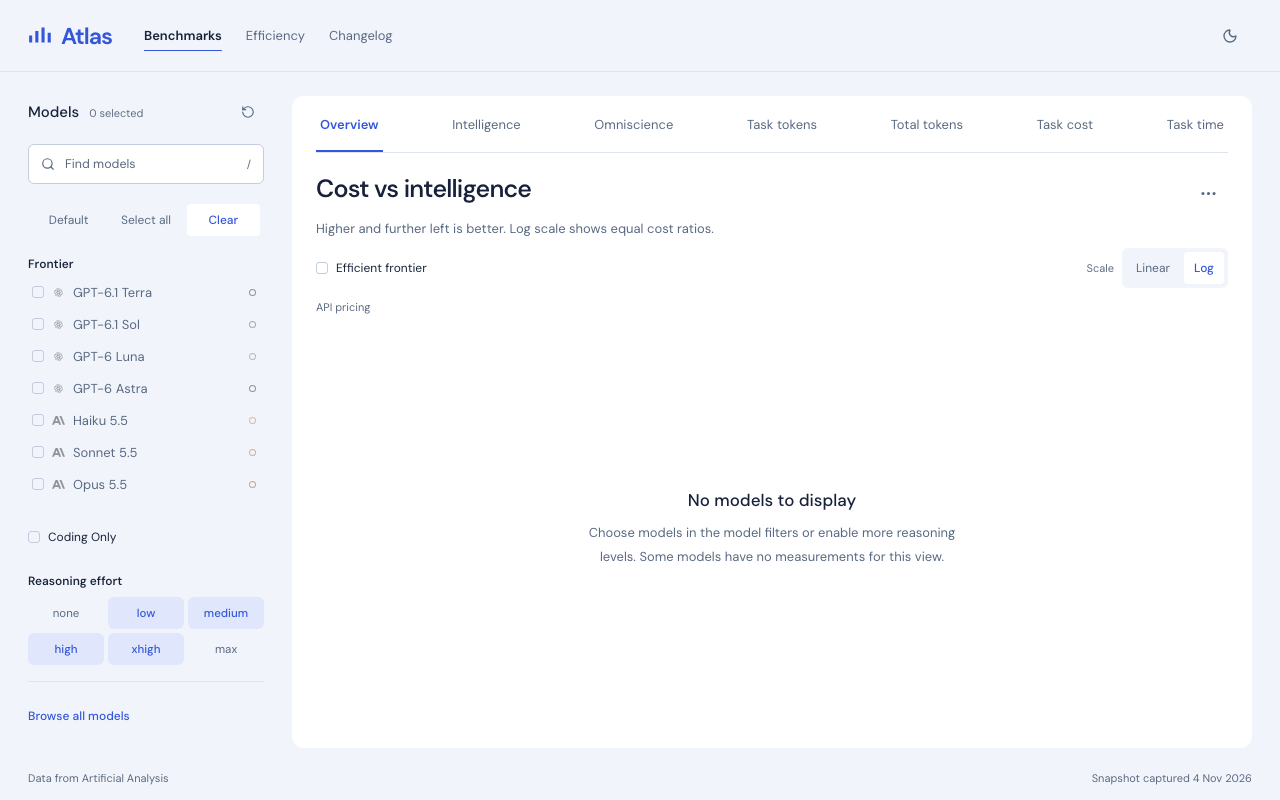
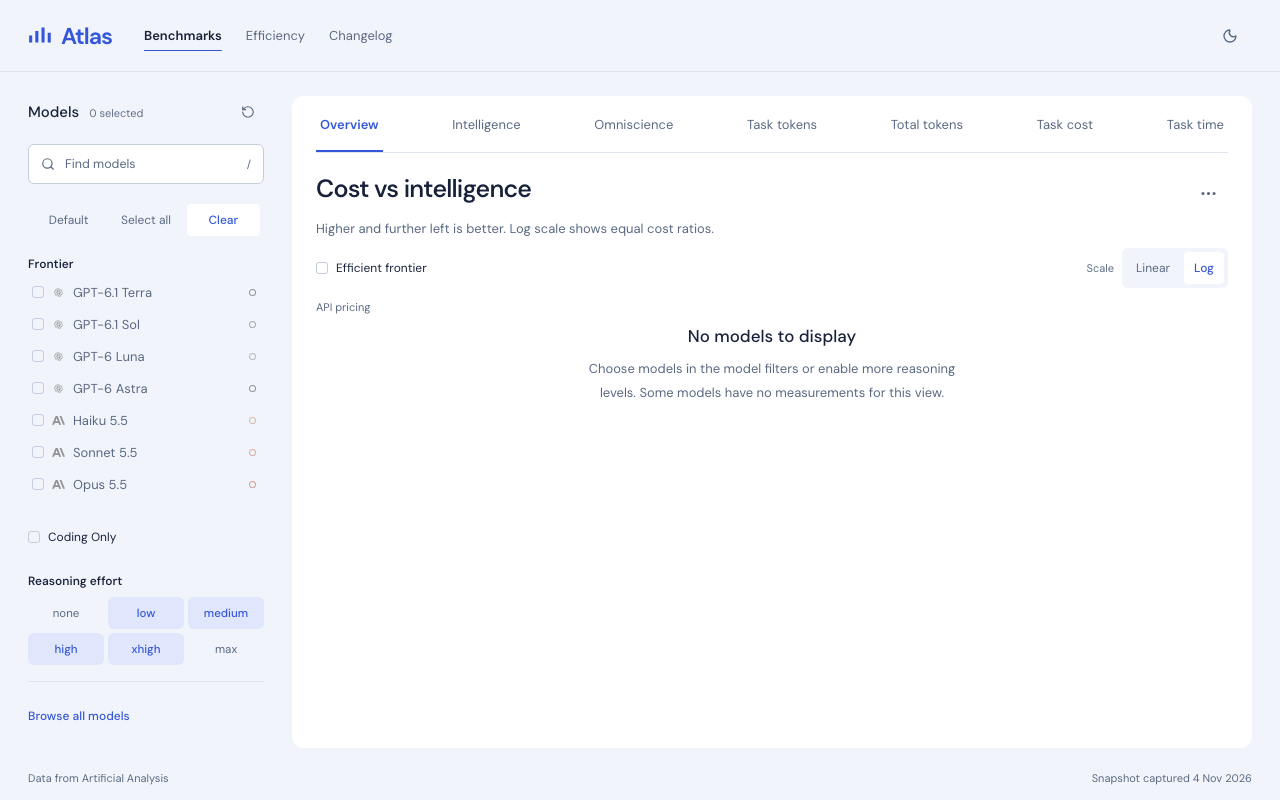
fix: give compact scatter charts readable plot space

Changed region(s): [[0.4688, 0.5938, 0.75, 0.7188], [0.4688, 0.4062, 0.75, 0.5]]

diff --git a/tests/browser/ui-quality.spec.ts b/tests/browser/ui-quality.spec.ts
@@ -250,3 +250,16 @@ test('cost scale changes retain exact measurements and the compact scatter keeps
   const overview = page.locator('#cost-intelligence');
   await expect(overview.getByRole('button', { name: 'GPT-6.1 Sol', exact: true })).toBeVisible();
 });
+
+
+test('compact scatter uses readable plot dimensions without scaling its axis text', async ({ page }) => {
+  for (const [width, minimumHeight] of [[901, 360], [390, 320], [320, 320]]) {
+    await page.setViewportSize({ width, height: 800 });
+    await page.goto('/');
+    const svg = page.locator('#cost-intelligence svg[role=group]');
+    await expect(svg).toBeVisible();
+    await expect.poll(() => svg.evaluate((element) => (element as SVGSVGElement).getScreenCTM()!.a)).toBeCloseTo(1, 2);
+    expect((await svg.boundingBox())!.height).toBeGreaterThanOrEqual(minimumHeight - 1);
+    expect(await svg.locator('text').first().evaluate((element) => element.getBoundingClientRect().height)).toBeGreaterThanOrEqual(12);
+  }
+});

diff --git a/src/styles.css b/src/styles.css
@@ -449,3 +449,7 @@
 
 .ranking-scroll-cue { position: absolute; bottom: 0; inset-inline: 0; display: flex; justify-content: center; align-items: center; gap: 6px; padding: 16px 12px 8px; border-radius: 0 0 12px 12px; background: linear-gradient(transparent, var(--panel) 45%); color: var(--fg-2); font-size: 12px; pointer-events: none; }
 @media (width <= 900px) { .ranking-scroll-cue { display: none; } }
+
+.chart-section:has(.scatter-plot) { height: auto; min-height: 100%; }
+.scatter-plot { min-height: 360px; }
+@media (width <= 600px) { .scatter-plot { min-height: 320px; } }

diff --git a/src/Charts.tsx b/src/Charts.tsx
@@ -147,7 +147,7 @@ export const Chart = memo(function Chart({
       }}
     >
       <div
-        className={`relative min-h-0 ${scatter ? "flex-1 mobile:aspect-[1/1.2] mobile:flex-none" : "contents"}`}
+        className={`relative min-h-0 ${scatter ? "scatter-plot flex-1 mobile:aspect-[1/1.2] mobile:flex-none" : "contents"}`}
         ref={ref}
       >
         {ready &&

diff --git a/docs/ui-quality/horizontal-review.md b/docs/ui-quality/horizontal-review.md
@@ -44,3 +44,13 @@ Sol's run failed at the provider usage limit. No approval is inferred from that 
 Round 2 is pending. Fresh captures include desktop/320px linear costs in both themes, phone expansion, and the corrected Efficiency layout. Validation before rebase: 181 unit tests, type checking, build, and 18 production browser tests pass. Rebase validation and captures will be refreshed against latest main.
 
 Rebased onto current main `8f33ad0`, preserving the updated benchmark data, output-speed fix and OpenAI/Anthropic default selection. Post-rebase checks pass: type checking, 182 unit tests, production build, and 18 production browser tests. All current captures were regenerated after this rebase. Baseline images retain the earlier snapshot, so comparisons demonstrate layout changes rather than identical metric values.
+
+## Round 2 partial result and compact scatter fix
+
+Terra scored navigation, hierarchy, controls, accessibility and theme consistency 9/10, with chart readability and mobile responsiveness 8.5/10, overall 8.5/10. Its only required change was a larger readable compact scatter. Other round-2 reports are pending.
+
+The compact scatter now has at least 360px of plot height on desktop and 320px on phones. The entire card can scroll, keeping the named legend without squeezing the plot. A browser test checks 901px, 390px and 320px, including plot height, rendered axis text height, and an SVG screen scale of one.
+
+Capture scripts now wait for SVG viewBox dimensions to match the measured viewport before taking evidence. The previous 901px capture caught the initial measurement state and made the chart look reduced. The corrected capture shows a 553px by 360px SVG at a screen scale of one. The application also has the larger minimum plot height, so this is a layout improvement as well as a capture correction.
+
+Added dedicated desktop and phone Total tokens captures. Current validation: type checking and production build pass, with all 19 production browser tests passing. The last complete unit run passed all 182 tests; this change only touches chart sizing and screenshot evidence.
